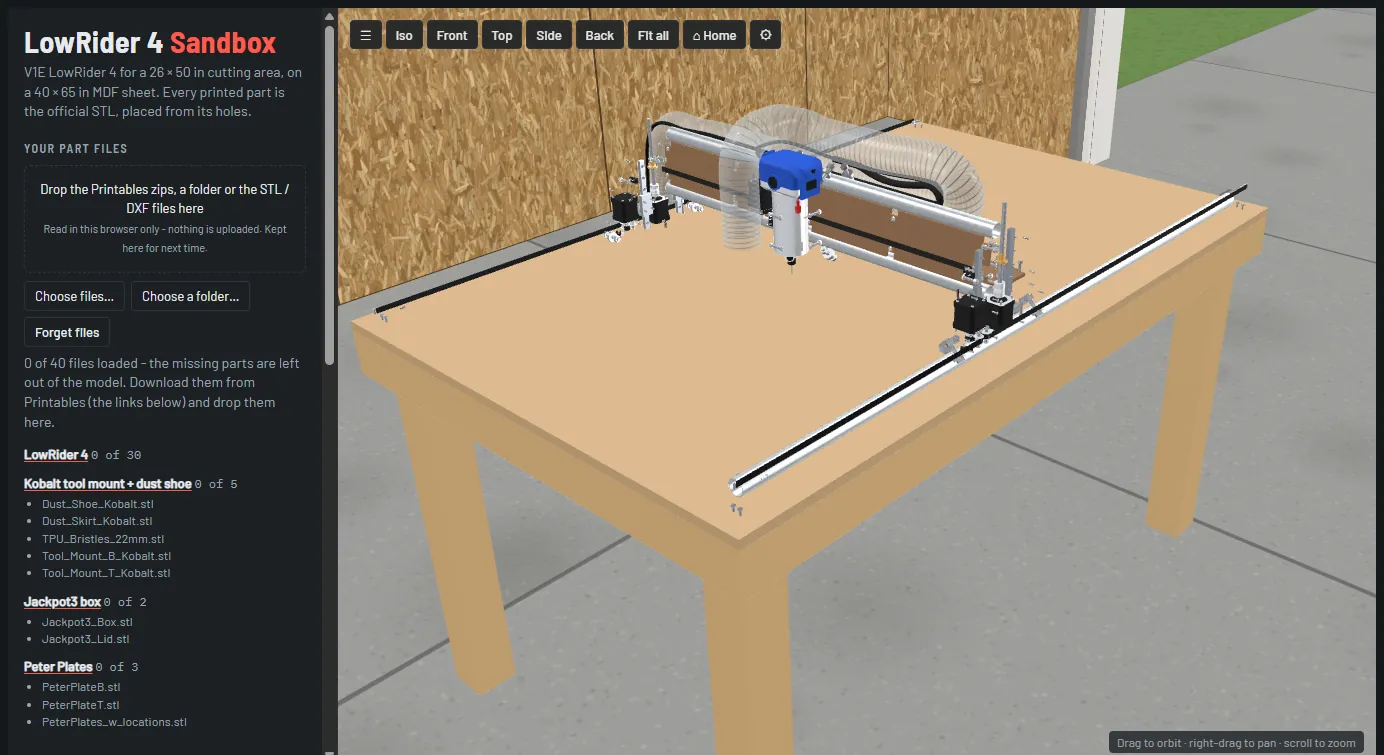
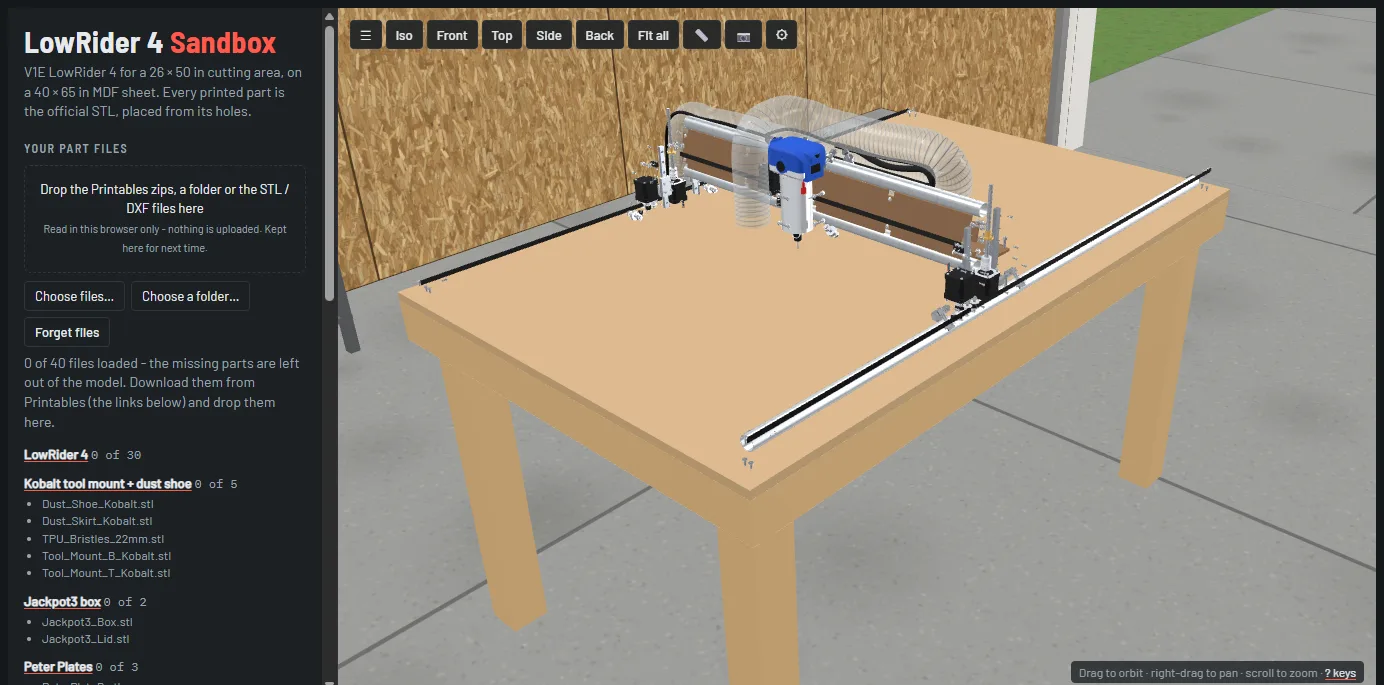
README for publishing: current features, videos from G-code, new screenshots; Pages publishes all of web/
- README: My LR4 / Show / Inspect / Build as they are now, units, Sound, around the
  view (keys, measure, picture, share link, reset), Making videos from G-code (the
  (Video ...) comments, with docs/examples/feature_demo.gcode), the newer tests,
  FluidTouch in the credits; the part files are all V1E's.
- docs/img: screenshots retaken from page 0.32.0, plus inspect.webp.
- Pages workflow: publish the committed web/ (fluidnc/, fluidtouch/, models/,
  coi-serviceworker.js were missing), minus viewer.html.
- CLAUDE.md: web/data/ is committed, V1E approved (publishing waits for the
  maintainer), README kept in step with features, page tests and videos.

diff --git a/tests/test_page_sound.js b/tests/test_page_sound.js
@@ -1,4 +1,4 @@
-// Machine sounds in headless Chrome (Parts 21-22): a real click on the toolbar's Sound starts Web Audio; moving X
+// Machine sounds in headless Chrome (Parts 21-22): a real click on the Sound toggle (under ⚙) starts Web Audio; moving X
 // makes its stepper voice sound at the real speed's pitch; Playback homing clicks the switches; a short trace renders
 // to a WAV that isn't silent.
 //   node tests/test_page_sound.js   (not in npm test: needs Chrome + Python)

diff --git a/README.md b/README.md
@@ -17,21 +17,21 @@ features and checks every fastener.
 
 | | |
 |---|---|
-| **LowRider 4 Sandbox** (`web/index.html`) | The page. **My machine:** enter a cutting area and it builds the machine in 3D (every printed part, rail, belt, bolt, the strut plates and the vacuum hose); choose what's on it (router + shoe, hose, lid fan, pendant, Peter Plates, strut plates). **Show:** a tree of every part by assembly and kind, with presets, to hide parts from the view. **Build it:** the cut list (V1E's calculator), the strut plate outlines, DXF / SVG / G-code downloads, the full BOM and a `config.yaml` for your size. **Run:** play G-code on the machine, or drive it with FluidNC in the browser. Plus a workshop round it and VR. |
+| **LowRider 4 Sandbox** (`web/index.html`) | The page. **My LR4:** enter a cutting area and it builds the machine in 3D (every printed part, rail, belt, bolt, the strut plates and the vacuum hose); choose what's on it (router + shoe, hose, lid fan, pendant, Peter Plates, strut plates). **Show:** a tree of every part by assembly and kind, with presets, to hide parts from the view, and an inspect view for one assembly at a time. **Build:** the cut list (V1E's calculator), the strut plate outlines, DXF / SVG / G-code downloads, the full BOM and a `config.yaml` for your size. **Run:** play G-code on the machine, or drive it with FluidNC in the browser. Plus machine sounds, a workshop round it, VR, share links and scripted demo videos. |
 | **FreeCAD model** (`freecad/`) | Scripts that assemble the LowRider 4 in [FreeCAD](https://www.freecad.org/) from the official STLs. Every part is placed by its measured mating features (hole patterns, pockets), and every fastener is checked for seat, engagement and collisions. Outputs: an FCStd assembly, a BOM, strut plate DXF/SVG and G-code. |
 | **Pipeline** (`pipeline/`) | Builds the model at many sizes and fits how each part moves with the size. That is how the page can draw any size without FreeCAD. |
 | **FluidNC in the browser** (`web/fluidnc/`) | FluidNC's wasm port, built from a fork's `wasm-sim` branch with simulated limit switches, a touch plate probe and a time scale. |
 
 ## The part files
 
-The printed parts are **not** in this repo. They are V1 Engineering's (and other designers') files. You download
-them yourself from Printables (free), and the page or the FreeCAD scripts place your copies:
+The printed parts are **not** in this repo. They are V1 Engineering's files, all on V1E's Printables pages. You
+download them yourself (free), and the page or the FreeCAD scripts place your copies:
 
 | Download | Folder in `parts/` (FreeCAD only) |
 |---|---|
 | [LowRider 4](https://www.printables.com/model/1034840) (V1 Engineering), including the XZ plate DXFs | `lr4/` |
 | [Kobalt tool mount + dust shoe](https://www.printables.com/model/1034828) (V1 Engineering) | `kobalt/` |
-| [Jackpot3 box](https://www.printables.com/model/1434650) | `jackpot3/` |
+| [Jackpot3 box](https://www.printables.com/model/1434650) (V1 Engineering) | `jackpot3/` |
 | [Peter Plates](https://www.printables.com/model/1044487) (V1 Engineering) | `peter/` |
 
 On each Printables page, use **Download** to get all of the model's files as one zip. Nothing else is needed: the
@@ -61,16 +61,32 @@ Unzip each download into its folder under `parts/` (the table above), for exampl
 
 ## Using the page
 
-### My machine, Show and Build
+### My LR4, Show and Build
 
-Enter the cutting area (inches or mm) and the page rebuilds the machine: brace count, rails, belts, table, hose
-routing. Options take parts off the machine and the BOM (router + dust shoe, skirt, hose, lid fan, pendant); **Show**
-only hides parts from the view (assembly > printed / cut / hardware / electronics > part; a bolt is listed under both
-assemblies it joins). **Inspect** (⤢ on a row, or double-click a part) shows one assembly or part alone with the
-bolts and bearings that hold it and its parts list, screw and nut counts included, with an exploded view, a section
-cut and a measuring tool that snaps to corners and hole centres. **Build** has the cut list from V1E's LowRider 4 calculator, the strut plates (DXF / SVG, or G-code to
-cut them on the machine itself), the full BOM with hardware counts for your size, and V1E's JP3_LR `config.yaml`
-with `max_travel_mm` set for your size (or your own config.yaml, adjusted the same way).
+**My LR4:** enter the cutting area (inches or mm) and the page rebuilds the machine: brace count, rails, belts,
+table, hose routing. Options take parts off the machine and the BOM (router + dust shoe, skirt, hose, lid fan,
+pendant), and pick the strut plates (MDF or the printed temporary ones) and the Peter Plates style (Open, Closed,
+Honeycomb or None). Also here: the table height and the print colours.
+
+**Show** only hides parts from the view, never from the BOM: a tree of assembly > printed / cut / hardware /
+electronics > part (a bolt is listed under both assemblies it joins), with presets (All, No hardware, Printed parts
+only, Frame only). **Scene** sets the detail (Full, or Lite for slower devices) and the background (a workshop, or
+plain).
+
+**Inspect** (⤢ on a Show row, or double-click a part) shows one assembly or part alone with the bolts and bearings
+that hold it, and its parts list with screw and nut counts. Its tools: an exploded view (along the bolt lines), a
+section cut (X, Y or Z, either side), X-ray (the printed parts see-through, the hardware solid), Lines (edges only)
+and a measuring tool that snaps to corners and hole centres. Esc or **Back to the machine** returns.
+
+![Inspect: the core, exploded, with its parts list](docs/img/inspect.webp)
+
+**Build** has the cut list from V1E's LowRider 4 calculator, the strut plates (DXF / SVG, or G-code to cut them on
+the machine itself), the full BOM with hardware counts for your size, and V1E's JP3_LR `config.yaml` with
+`max_travel_mm` set for your size (or your own config.yaml, adjusted the same way).
+
+Building numbers (the cutting area, table, braces pitch, cut list, strut plate drawing) follow the inches / mm
+switch. Running numbers (tool position, MPos, work position, jogging, the G-code settings) are always mm with 3
+decimals, as FluidNC reports them.
 
 ![Build: the BOM, the cut list and the strut plates](docs/img/build.webp)
 
@@ -78,9 +94,12 @@ with `max_travel_mm` set for your size (or your own config.yaml, adjusted the sa
 
 **Run** > **Runs on Basic** plays G-code on the machine: the strut plate job (V1E's build order: the machine runs
 on its printed temporary struts and cuts its own MDF strut plates; **Use the temporary struts**), or any G-code file
-(**Play a G-code file…**). The bit follows the moves at FluidNC-like speeds, the stock is carved as it goes, M0
-pauses pop up their message, G38.2 probes stop on the touch plate, and Home plays FluidNC's homing. Speeds 1x to
-300x; scrub with the timeline. With **FluidTouch pendant** ticked (off by default), the pendant on the table works
+from the page's **SD card** (**Add G-code files…**, or drop them on it; ▶ plays one). The bit follows the moves at
+FluidNC-like speeds, the stock is carved as it goes (with the file's own bits, from
+[cnc-gcode-tools](https://github.com/jeyeager65/cnc-gcode-tools) `(Stock: ...)` / `(ToolDef ...)` comments, or ones
+you describe under **Stock and bits**), M0 pauses pop up their message, G38.2 probes stop on the touch plate, tool
+changes swap the bit, and **Home ($H)** plays FluidNC's homing. Speeds 1x to 100x; scrub with the timeline;
+**Space** plays / pauses. With **FluidTouch pendant** ticked (off by default), the pendant on the table works
 here too: it talks to a small stand-in for
 FluidNC (labelled as such) that homes, jogs, holds / resumes, lists the SD card and plays a file from it; anything
 else answers "not in Basic mode".
@@ -114,17 +133,35 @@ service workers can't run FluidNC mode; everything else works.
 
 ### Workshop
 
-**View** (the ⚙ on the canvas) > **Background** shows the machine in a workshop: by default the maintainer's
+**Show** > **Scene** > **Background** > **Workshop** shows the machine in a workshop: by default the maintainer's
 16 x 20 ft shop with an 8' 4" ceiling (benches, shelf, an open garage door). Zoom in and the near walls open up;
-zoom far out to see the closed building. Enter your own building's size (X, Y, ceiling) to see how much room the
-machine takes: the page gives the gap to each wall and warns when a side is under 2 ft / 600 mm. The room and the
-table legs are drawn by the page only.
+zoom far out to see the closed building. Enter your own building's size (X, Y, ceiling, under Background) to see how
+much room the machine takes: the page gives the gap to each wall and warns when a side is under 2 ft / 600 mm. The
+room and the table legs are drawn by the page only.
 
 ![The workshop from outside](docs/img/outside.webp)
 
+### Sound
+
+**⚙** (on the canvas) > **Sound** turns on machine sounds, synthesized live from what the machine is doing: the
+steppers (TMC2209s in StealthChop, pitched by each axis' step rate), the Kobalt router at its dial speed with the
+cutting load (it bogs down in a deep cut), the shop vac, the switch clicks when homing and the touch plate tap. The
+same menu has the volume and, for fun, a "robot noises" voice.
+
+### Around the view
+
+- **Iso / Front / Top / Side / Back / Fit all** (keys **1**-**5**, **F**) set the camera; on a phone they fold into
+  one **View** menu. ☰ (**H**) hides the side panel.
+- **📏 Measure** (**M**): two clicks on the machine, snapping to corners and hole centres; Esc ends it.
+- **📷** (**P**) saves the view as a PNG.
+- **?** lists the keys. ⚙ also connects a 3Dconnexion SpaceMouse.
+- **Copy a link to this build** (in the footer) puts the size, braces, plate choices, options, pendant, table, room,
+  colours and units in the link, for example `#26x50&braces=6&hose=0&units=mm`; opening it sets them.
+- **Reset settings** (footer) puts every setting back to the default; your part files and SD card stay.
+
 ### VR (optional)
 
-With a PC VR headset on SteamVR / OpenXR (PS VR2, Index, Quest Link) and Chrome or Edge, the View panel shows
+With a PC VR headset on SteamVR / OpenXR (PS VR2, Index, Quest Link) and Chrome or Edge, the toolbar shows
 **Enter VR** (https or 127.0.0.1 only); the desktop window then shows a small card instead of the side panel. Left
 controller: the menu (tap its grip to hide it). Touch a part - or point at it and pull the trigger - for its name
 and Hide part / Hide group. Trigger also presses menu buttons, grabs the red sphere to move the core and drags the
@@ -140,6 +177,44 @@ python tools/serve.py sandbox 48x96          # the page on 127.0.0.1:8767; optio
 
 It serves the repo with the cross-origin isolation headers and opens the page with `?parts=/parts/`, so it loads
 the files in your `parts/` folder (if you have one) without dropping them.
+
+## Making videos from G-code
+
+`tools/record_demo.js` records an MP4 of the page running a G-code file, with the machine sounds. The video is
+scripted by `(Video ...)` comments in the file itself, in the style of cnc-gcode-tools' `(CNCSIM)` / `(Stock:)` /
+`(ToolDef)` comments: FluidNC and the page ignore them, so one file is both the job and the video. It runs the page
+in headless Chrome and steps its clock one frame at a time, so the video plays at true speed however long each frame
+takes to render (1080p: about 6 minutes for a 2 minute video).
+
+It needs a clone of this repo, the part files in `parts/` (see above), Node 22+, Chrome and ffmpeg on the PATH:
+
+```sh
+python tools/serve.py sandbox --no-open      # serve the page (with the headers FluidNC and the pendant need)
+node tools/record_demo.js docs/examples/feature_demo.gcode exports/video/feature_demo.mp4
+```
+
+[`docs/examples/feature_demo.gcode`](docs/examples/feature_demo.gcode) is a worked example: a tour of the page
+(Show presets, the core in Inspect: exploded, cut, X-ray, lines), then homing, a probe and a small sign cut with two
+bits (a 1/8" flat for the letters and holes, a tool change, a 90° V-bit for the border), with captions, camera
+shots and the FluidTouch pendant's screen in a corner. The comments:
+
+| Comment | What it does |
+|---|---|
+| `(Video: SIZE=1920x1080 FPS=30 SOUND=on ...)` | Settings, before the first move: size, frame rate, volume, `VOICE=robot`, `DETAIL`, `SCENERY`, `MACHINE=26x50` (cutting area, in), the machine's options as on My LR4 (`TABLE=34in ROOM=16x20x9ft BRACES= STRUTS= PETER= ROUTER= SKIRT= HOSE= FAN= MAIN= ACCENT=`), `PENDANT=on`, `MODE=fluidnc` (run it on the page's FluidNC), how long M0 pauses and messages show (`PAUSE`, `MESSAGETIME`), `PARK=on`, `HOLD` on the result. |
+| `(Video Title: TIME=3 TEXT=Line one\|Line two)` | A full-screen title card. |
+| `(Video Text: TIME=4 TEXT=...)` | A caption over what comes next. |
+| `(Video Shot: VIEW=tool TIME=1.5 ORBIT=8 DIST=600)` | The camera: `workshop`, `machine`, `stock`, `tool` (follows the bit), `core`, `iso`, `front`, `top`, `side`, `back`, `page`, `pendant`; it blends there over TIME and turns round it over ORBIT. |
+| `(Video Show: PRESET=frame HIDE=Dust_Skirt*,Bristles_TPU* SHOW=...)` | What's drawn, by Show's presets and ids (an assembly, `asm.kind`, a part name, `*` patterns). Mid-job too: hide the skirt and bristles to watch the bit. |
+| `(Video Inspect: ID=core EXPLODE=0.7 SECTION=y@0.5 FLIP=on VIEW=xray TIME=2 ORBIT=6)` | The inspect view, animated over TIME; `ID=off` goes back to the machine. |
+| `(Video Home: OFFSET=30)` / `(Video Zero: X=150 Y=120)` | Home at real speed, then jog to work zero (where the stock sits); before the first move. |
+| `(Video Speed: FIT=25 REAL=3)` | The job's pace: `X=` times, or fit its moves into FIT seconds; REAL = seconds at 1x at each section's first cut. |
+| `(Video Wait: TIME=2)` / `(Video Pendant: SHOW=on CORNER=br SIZE=24)` | Hold; the pendant's screen in a corner. |
+
+Lines before the first move are the intro and run in order; later ones run when the job reaches their line. `MSG`
+comments show on top as the job reaches them, and M0 pauses show their popup. The full reference is the header of
+[`tools/demo_script.js`](tools/demo_script.js); the recorder's options (`--size`, `--job`, `--real`, `--mode`,
+`--voice`, `--pendant`, `--no-sound` ...) are in the header of [`tools/record_demo.js`](tools/record_demo.js), and
+command-line flags win over the file's settings.
 
 ## Running the FreeCAD model
 
@@ -183,6 +258,10 @@ node test_config_model.js                    # the page's machine vs every FreeC
 node test_calculator.js                      # the JS and Python calculators agree (needs python)
 node test_vr.js                              # the VR menu layout, the workshop room
 node test_strut_cam.js                       # the page's strut plate G-code; vs freecad/cam.py if its goldens exist
+node test_show_tree.js                       # the Show tree, its presets and the inspect sets
+node test_sounds.js                          # the machine sound helpers (stepper pitch, router, cutting load)
+node test_demo_script.js                     # (Video ...) comments -> the video's settings and commands
+node test_basic_nc.js                        # Basic mode's FluidNC stand-in, driven as FluidTouch would
 node test_gcode_play.js                      # G-code playback: pauses, probe, G20/G21, carving frees the plates
 node test_homing.js                          # Basic mode's Home: FluidNC's homing order, pull-offs, MPos
 node test_fluidnc_sim.js                     # parsing FluidNC's output (status reports, ok / error, messages)
@@ -190,6 +269,12 @@ node test_sim_config.js                      # config.yaml -> the browser copy (
 node test_page_fluidnc.js                    # headless Chrome: FluidNC in the page - boot, home, probe, jog,
                                              #   speed, restarts; served with headers and as plain files (Pages)
 node test_page_vr.js                         # headless Chrome: the page in VR preview
+node test_page_inspect.js                    # headless Chrome: the inspect view and its tools (needs parts/)
+node test_page_basic.js                      # headless Chrome: Basic mode with the FluidTouch pendant
+node test_page_sdjob.js                      # headless Chrome: the SD card and a job run on FluidNC
+node test_page_pendant.js                    # headless Chrome: the pendant in FluidNC mode
+node test_page_fluidtouch.js                 # headless Chrome: FluidTouch's UI connected to the page
+node test_page_sound.js                      # headless Chrome: machine sounds start, follow the axes, render a WAV
 node test_strut_plate.js                     # JS strut plates vs Vector76's OpenSCAD generator (maintainer only)
 python ../tools/run.py test_strut_plate.py   # Python strut plates vs the same (maintainer only)
 node test_parts_files.js                     # the page's STL / DXF readers vs the reference build (needs parts/)
@@ -216,8 +301,9 @@ web/        the page (index.html), the viewer (viewer.html), js/
 pipeline/   FreeCAD builds -> the page's data
 tests/      node tests, test_strut_plate.py, test_share.py
 tools/      run.py, serve.py, build_fluidnc_wasm.py, repo tools (sync_fclib, check_no_parts, check_parts,
-            page_shot = headless screenshots, record_demo = a demo video)
-docs/       PLAN.md: settings, measurements and decisions behind the model; img/: the pictures here
+            page_shot = headless screenshots, record_demo + demo_script = videos from G-code)
+docs/       PLAN.md: settings, measurements and decisions behind the model; img/: the pictures here;
+            examples/: a scripted demo video (G-code)
 .github/    CI, the Pages workflow (manual), issue template
 ```
 
@@ -235,6 +321,8 @@ only data, and it holds no V1E geometry (the page places your downloaded files).
 - The Run tab's controller is **[FluidNC](https://github.com/bdring/FluidNC)** (GPL-3.0) itself, built for the
   browser with its wasm port, from the `wasm-sim` branch of [a fork](https://github.com/jeyeager65/FluidNC/tree/wasm-sim)
   (`web/fluidnc/build.json` names the exact commit; `tools/build_fluidnc_wasm.py` rebuilds it).
+- The pendant is [FluidTouch](https://github.com/jeyeager65/FluidTouch) (MIT): its case and stand, and its firmware's
+  UI built for the browser (`web/fluidtouch/`).
 - [coi-serviceworker](https://github.com/gzuidhof/coi-serviceworker) (MIT, `web/coi-serviceworker.js`) makes the page
   cross-origin isolated on GitHub Pages, which FluidNC's threads need.
 

diff --git a/CLAUDE.md b/CLAUDE.md
@@ -20,15 +20,17 @@ across many FreeCAD builds. See README.md for the layout. FreeCAD 1.1, Python 3,
 - **`freecad/fclib/` is a vendored copy.** Don't edit it here. Change the source (the maintainer's FreeCAD workspace,
   `D:/FreeCAD/lib/fclib`), then `python tools/sync_fclib.py`.
 - **No part files in git.** STL / STEP / DXF / OBJ / 3MF / FCStd, and `parts/`, `private/`, `vendor/`, `build/`,
-  `exports/`, `web/data/` are git-ignored, and `tools/check_no_parts.py` is the pre-commit hook. The V1E files are
-  V1E's; users download their own.
-- **Commit or push only when the maintainer asks.** Nothing goes to GitHub until V1E has approved the public version.
+  `exports/` are git-ignored, and `tools/check_no_parts.py` is the pre-commit hook. The V1E files are V1E's; users
+  download their own. `web/data/` is committed: the page's data from `pipeline/share_data.py`, with no V1E geometry.
+- **Commit or push only when the maintainer asks.** V1E has approved the public version; pushing and GitHub Pages
+  still wait for the maintainer's go.
 - **Keep JS and Python rules in step.** The page mirrors several Python rules (`lr4.hose_route` / `cord_route` /
   `jp3_shift` in `web/js/config_model.js`; `calculator.py` / `calculator.js`; `strut_plate.py` / `strut_plate.js`).
   Change both and run the tests.
 - Units: mm inside; the cutting area and table are in inches. Axes: X along the beam, Y along the table (front 0),
   Z up.
-- **Versions:** a user-visible page change bumps `VERSION` in `web/index.html` and gets a CHANGELOG.md entry.
+- **Versions:** a user-visible page change bumps `VERSION` in `web/index.html` and gets a CHANGELOG.md entry; a new
+  feature or a moved control also gets its README.md line (and a new screenshot in `docs/img/` if one shows it).
   CI (`.github/workflows/ci.yml`) runs only what works without part files: the guard, a Python compile, `npm test`.
 
 ## Running
@@ -43,6 +45,12 @@ across many FreeCAD builds. See README.md for the layout. FreeCAD 1.1, Python 3,
   it fails when there are no size builds to compare).
 - Pages: `python tools/serve.py sandbox` / `python tools/serve.py viewer`. Edit the viewer in
   `web/viewer.html` (export_web copies it into exports/web).
+- Page tests: `tests/test_page_*.js` drive headless Chrome (several need `parts/`; the FluidNC ones take minutes).
+  Screenshots: `node tools/page_shot.js <url> <out.png> [--eval js --shot out2.png]...`.
+- Videos: `python tools/serve.py sandbox --no-open`, then `node tools/record_demo.js <file.gcode> [out.mp4]` in the
+  background (~6 min for 2 min of 1080p). The `(Video ...)` comment spec is the header of `tools/demo_script.js`;
+  README's table follows it, so update both. Example: `docs/examples/feature_demo.gcode`. Send the video to the
+  maintainer rather than analysing it; over 30 MB, send a CRF 30 copy.
 
 ## Keeping context small
 
